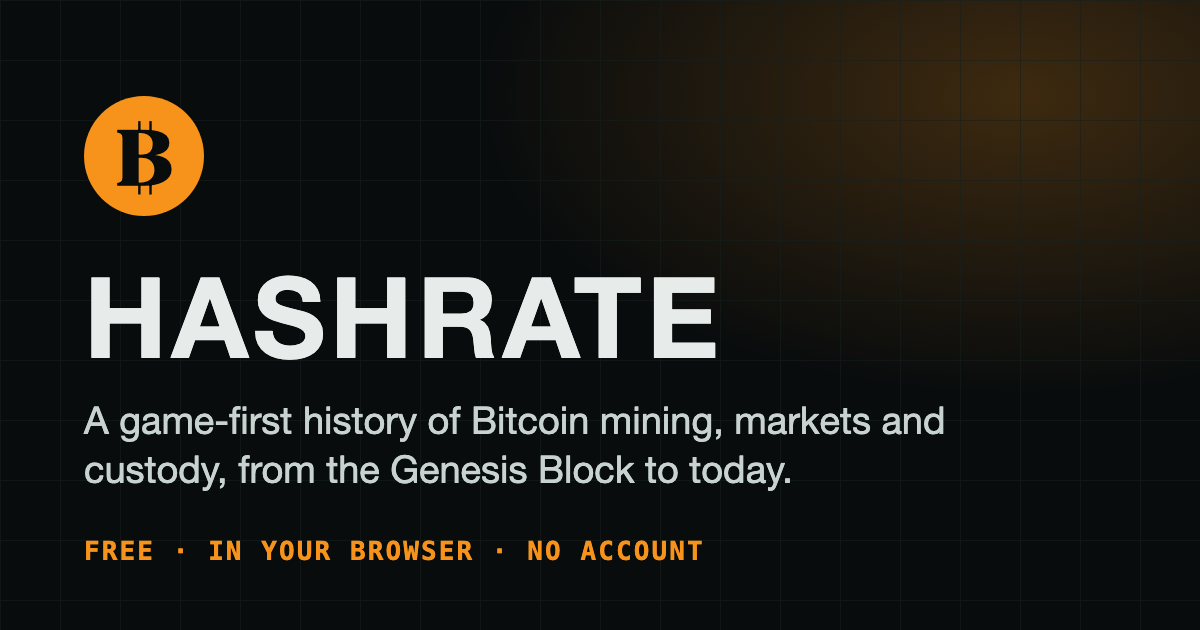
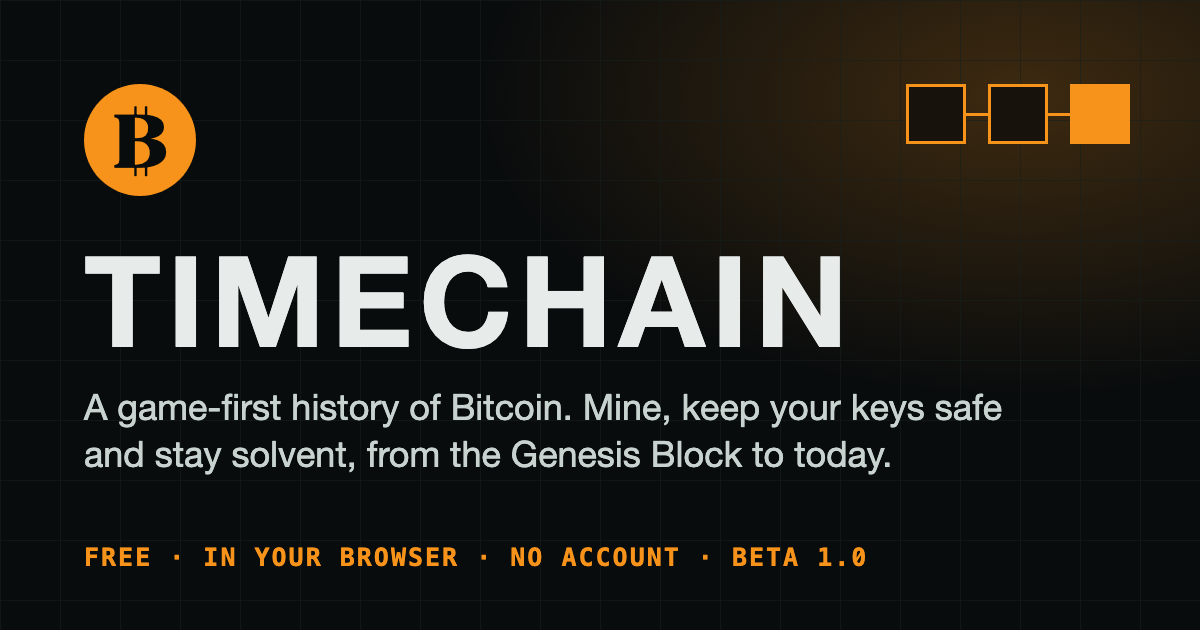
Timechain Beta 1.0
Hashrate becomes Timechain: the header, title, share image, 404, README and ARCHITECTURE, the
feedback links (github.com/mja1337/timechain) and the Pages address (/timechain/). The version
is now Beta 1.0, built from APP_STAGE and APP_VERSION, with the seed beside it in the header.
The coin at the top left links to the Bitcoin whitepaper in a new tab. Storage keys keep their
old names on purpose, so saved runs carry over. README release process rewritten for beta tags.

diff --git a/index.html b/index.html
@@ -4,103 +4,103 @@
   <meta charset="utf-8">
   <meta name="viewport" content="width=device-width,initial-scale=1">
   <meta name="theme-color" content="#090c0d">
-  <meta name="description" content="Hashrate Alpha 2.33: a game-first history of Bitcoin mining, markets, custody and geopolitics from the Genesis Block to today.">
+  <meta name="description" content="Timechain Beta 1.0: a game-first history of Bitcoin mining, markets, custody and geopolitics from the Genesis Block to today.">
   <link rel="icon" type="image/svg+xml" sizes="any" href="favicon.svg">
   <link rel="apple-touch-icon" href="apple-touch-icon.png">
   <meta property="og:type" content="website">
-  <meta property="og:title" content="Hashrate: a game-first history of Bitcoin mining">
-  <meta property="og:description" content="Run a mine from the Genesis Block to today, with recorded price, hash rate and difficulty. Free, in your browser, no account.">
-  <meta property="og:url" content="https://mja1337.github.io/hashrate-game/">
-  <meta property="og:image" content="https://mja1337.github.io/hashrate-game/og.png">
+  <meta property="og:title" content="Timechain: a game-first history of Bitcoin">
+  <meta property="og:description" content="Mine, keep your keys safe and stay solvent from the Genesis Block to today, with recorded price, hash rate and difficulty. Free, in your browser, no account.">
+  <meta property="og:url" content="https://mja1337.github.io/timechain/">
+  <meta property="og:image" content="https://mja1337.github.io/timechain/og.png">
   <meta property="og:image:width" content="1200">
   <meta property="og:image:height" content="630">
   <meta name="twitter:card" content="summary_large_image">
-  <title>Hashrate Alpha 2.33 — Genesis to Now</title>
-  <link rel="stylesheet" href="src/styles/app.css?v=2.33">
+  <title>Timechain Beta 1.0 — Genesis to Now</title>
+  <link rel="stylesheet" href="src/styles/app.css?v=1.0">
 </head>
 <body>
   <div id="app"></div>
-  <script src="src/app/recovery.js?v=2.33"></script>
-  <script src="historical-data.js?v=2.33"></script>
-  <script src="src/config/timeline.js?v=2.33"></script>
-  <script src="src/data/network.js?v=2.33"></script>
-  <script src="src/data/rivals.js?v=2.33"></script>
-  <script src="src/data/hardware.js?v=2.33"></script>
-  <script src="src/data/operations.js?v=2.33"></script>
-  <script src="src/data/progression.js?v=2.33"></script>
-  <script src="src/data/content.js?v=2.33"></script>
-  <script src="src/data/events.js?v=2.33"></script>
-  <script src="src/data/custody.js?v=2.33"></script>
-  <script src="src/data/glossary.js?v=2.33"></script>
-  <script src="src/engine/history.js?v=2.33"></script>
-  <script src="src/engine/immersion.js?v=2.33"></script>
-  <script src="src/engine/connectivity.js?v=2.33"></script>
-  <script src="src/engine/offline.js?v=2.33"></script>
-  <script src="src/engine/thermal.js?v=2.33"></script>
-  <script src="src/engine/fleet-ops.js?v=2.33"></script>
-  <script src="src/engine/secondary.js?v=2.33"></script>
-  <script src="src/engine/nodes.js?v=2.33"></script>
-  <script src="src/engine/operator.js?v=2.33"></script>
-  <script src="src/engine/render-queue.js?v=2.33"></script>
-  <script src="src/engine/save-guard.js?v=2.33"></script>
-  <script src="src/engine/simulation.js?v=2.33"></script>
-  <script src="src/engine/event-effects.js?v=2.33"></script>
-  <script src="src/engine/settlement.js?v=2.33"></script>
-  <script src="src/engine/custody.js?v=2.33"></script>
-  <script src="src/engine/payouts.js?v=2.33"></script>
-  <script src="src/engine/signing.js?v=2.33"></script>
-  <script src="src/engine/treasury.js?v=2.33"></script>
-  <script src="src/engine/losses.js?v=2.33"></script>
-  <script src="src/engine/places.js?v=2.33"></script>
-  <script src="src/engine/hotkey.js?v=2.33"></script>
-  <script src="src/engine/keyholders.js?v=2.33"></script>
-  <script src="src/engine/credit.js?v=2.33"></script>
-  <script src="src/engine/lending.js?v=2.33"></script>
-  <script src="src/engine/facilities.js?v=2.33"></script>
-  <script src="src/engine/maintenance.js?v=2.33"></script>
-  <script src="src/engine/pools.js?v=2.33"></script>
-  <script src="src/engine/actions.js?v=2.33"></script>
-  <script src="src/ui/transaction-preview.js?v=2.33"></script>
-  <script src="src/engine/recap.js?v=2.33"></script>
-  <script src="src/ui/notify.js?v=2.33"></script>
-  <script src="src/ui/presentation.js?v=2.33"></script>
-  <script src="src/ui/art.js?v=2.33"></script>
-  <script src="src/ui/disaster-art.js?v=2.33"></script>
-  <script src="src/ui/tabs/dashboard.js?v=2.33"></script>
-  <script src="src/ui/tabs/pools.js?v=2.33"></script>
-  <script src="src/ui/tabs/mine.js?v=2.33"></script>
-  <script src="src/ui/tabs/ledger.js?v=2.33"></script>
-  <script src="src/ui/tabs/market.js?v=2.33"></script>
-  <script src="src/ui/tabs/operations.js?v=2.33"></script>
-  <script src="src/ui/tabs/treasury.js?v=2.33"></script>
-  <script src="src/ui/tour.js?v=2.33"></script>
-  <script src="src/ui/tabs/method-chapters-fleet.js?v=2.33"></script>
-  <script src="src/ui/tabs/method-chapters.js?v=2.33"></script>
-  <script src="src/ui/tabs/tech.js?v=2.33"></script>
-  <script src="src/ui/tabs/method.js?v=2.33"></script>
-  <script src="src/ui/enhance/repair-bench.js?v=2.33"></script>
-  <script src="src/ui/enhance/mine-power.js?v=2.33"></script>
-  <script src="src/ui/enhance/mine-market.js?v=2.33"></script>
-  <script src="src/ui/enhance/servicing.js?v=2.33"></script>
-  <script src="src/ui/enhance/price-chart.js?v=2.33"></script>
-  <script src="src/ui/floor3d/mount.js?v=2.33"></script>
-  <script src="src/ui/enhance/keys.js?v=2.33"></script>
-  <script src="src/ui/enhance/custody.js?v=2.33"></script>
-  <script src="src/ui/enhance/custody-order.js?v=2.33"></script>
-  <script src="src/ui/enhance/treasury.js?v=2.33"></script>
-  <script src="src/ui/enhance/settlement.js?v=2.33"></script>
-  <script src="src/ui/enhance/places.js?v=2.33"></script>
-  <script src="src/ui/enhance/people.js?v=2.33"></script>
-  <script src="src/ui/enhance/hotkey.js?v=2.33"></script>
-  <script src="src/ui/enhance/counterparties.js?v=2.33"></script>
-  <script src="src/ui/enhance/operations.js?v=2.33"></script>
-  <script src="src/ui/live.js?v=2.33"></script>
-  <script src="src/ui/footer.js?v=2.33"></script>
-  <script src="src/ui/intro-chat.js?v=2.33"></script>
-  <script src="src/ui/offline.js?v=2.33"></script>
-  <script src="src/ui/confetti.js?v=2.33"></script>
-  <script src="src/ui/render.js?v=2.33"></script>
-  <script src="src/app/events.js?v=2.33"></script>
-  <script src="src/app/bootstrap.js?v=2.33"></script>
+  <script src="src/app/recovery.js?v=1.0"></script>
+  <script src="historical-data.js?v=1.0"></script>
+  <script src="src/config/timeline.js?v=1.0"></script>
+  <script src="src/data/network.js?v=1.0"></script>
+  <script src="src/data/rivals.js?v=1.0"></script>
+  <script src="src/data/hardware.js?v=1.0"></script>
+  <script src="src/data/operations.js?v=1.0"></script>
+  <script src="src/data/progression.js?v=1.0"></script>
+  <script src="src/data/content.js?v=1.0"></script>
+  <script src="src/data/events.js?v=1.0"></script>
+  <script src="src/data/custody.js?v=1.0"></script>
+  <script src="src/data/glossary.js?v=1.0"></script>
+  <script src="src/engine/history.js?v=1.0"></script>
+  <script src="src/engine/immersion.js?v=1.0"></script>
+  <script src="src/engine/connectivity.js?v=1.0"></script>
+  <script src="src/engine/offline.js?v=1.0"></script>
+  <script src="src/engine/thermal.js?v=1.0"></script>
+  <script src="src/engine/fleet-ops.js?v=1.0"></script>
+  <script src="src/engine/secondary.js?v=1.0"></script>
+  <script src="src/engine/nodes.js?v=1.0"></script>
+  <script src="src/engine/operator.js?v=1.0"></script>
+  <script src="src/engine/render-queue.js?v=1.0"></script>
+  <script src="src/engine/save-guard.js?v=1.0"></script>
+  <script src="src/engine/simulation.js?v=1.0"></script>
+  <script src="src/engine/event-effects.js?v=1.0"></script>
+  <script src="src/engine/settlement.js?v=1.0"></script>
+  <script src="src/engine/custody.js?v=1.0"></script>
+  <script src="src/engine/payouts.js?v=1.0"></script>
+  <script src="src/engine/signing.js?v=1.0"></script>
+  <script src="src/engine/treasury.js?v=1.0"></script>
+  <script src="src/engine/losses.js?v=1.0"></script>
+  <script src="src/engine/places.js?v=1.0"></script>
+  <script src="src/engine/hotkey.js?v=1.0"></script>
+  <script src="src/engine/keyholders.js?v=1.0"></script>
+  <script src="src/engine/credit.js?v=1.0"></script>
+  <script src="src/engine/lending.js?v=1.0"></script>
+  <script src="src/engine/facilities.js?v=1.0"></script>
+  <script src="src/engine/maintenance.js?v=1.0"></script>
+  <script src="src/engine/pools.js?v=1.0"></script>
+  <script src="src/engine/actions.js?v=1.0"></script>
+  <script src="src/ui/transaction-preview.js?v=1.0"></script>
+  <script src="src/engine/recap.js?v=1.0"></script>
+  <script src="src/ui/notify.js?v=1.0"></script>
+  <script src="src/ui/presentation.js?v=1.0"></script>
+  <script src="src/ui/art.js?v=1.0"></script>
+  <script src="src/ui/disaster-art.js?v=1.0"></script>
+  <script src="src/ui/tabs/dashboard.js?v=1.0"></script>
+  <script src="src/ui/tabs/pools.js?v=1.0"></script>
+  <script src="src/ui/tabs/mine.js?v=1.0"></script>
+  <script src="src/ui/tabs/ledger.js?v=1.0"></script>
+  <script src="src/ui/tabs/market.js?v=1.0"></script>
+  <script src="src/ui/tabs/operations.js?v=1.0"></script>
+  <script src="src/ui/tabs/treasury.js?v=1.0"></script>
+  <script src="src/ui/tour.js?v=1.0"></script>
+  <script src="src/ui/tabs/method-chapters-fleet.js?v=1.0"></script>
+  <script src="src/ui/tabs/method-chapters.js?v=1.0"></script>
+  <script src="src/ui/tabs/tech.js?v=1.0"></script>
+  <script src="src/ui/tabs/method.js?v=1.0"></script>
+  <script src="src/ui/enhance/repair-bench.js?v=1.0"></script>
+  <script src="src/ui/enhance/mine-power.js?v=1.0"></script>
+  <script src="src/ui/enhance/mine-market.js?v=1.0"></script>
+  <script src="src/ui/enhance/servicing.js?v=1.0"></script>
+  <script src="src/ui/enhance/price-chart.js?v=1.0"></script>
+  <script src="src/ui/floor3d/mount.js?v=1.0"></script>
+  <script src="src/ui/enhance/keys.js?v=1.0"></script>
+  <script src="src/ui/enhance/custody.js?v=1.0"></script>
+  <script src="src/ui/enhance/custody-order.js?v=1.0"></script>
+  <script src="src/ui/enhance/treasury.js?v=1.0"></script>
+  <script src="src/ui/enhance/settlement.js?v=1.0"></script>
+  <script src="src/ui/enhance/places.js?v=1.0"></script>
+  <script src="src/ui/enhance/people.js?v=1.0"></script>
+  <script src="src/ui/enhance/hotkey.js?v=1.0"></script>
+  <script src="src/ui/enhance/counterparties.js?v=1.0"></script>
+  <script src="src/ui/enhance/operations.js?v=1.0"></script>
+  <script src="src/ui/live.js?v=1.0"></script>
+  <script src="src/ui/footer.js?v=1.0"></script>
+  <script src="src/ui/intro-chat.js?v=1.0"></script>
+  <script src="src/ui/offline.js?v=1.0"></script>
+  <script src="src/ui/confetti.js?v=1.0"></script>
+  <script src="src/ui/render.js?v=1.0"></script>
+  <script src="src/app/events.js?v=1.0"></script>
+  <script src="src/app/bootstrap.js?v=1.0"></script>
 </body>
 </html>

diff --git a/src/engine/actions.js b/src/engine/actions.js
@@ -581,8 +581,8 @@ function venueAvailable(id){
 function walletName(id){return({hot:"Node-connected hot wallet",cold:"Cold / hardware wallet",mtgox:"Mt. Gox",bitfinex:"Bitfinex",quadriga:"QuadrigaCX",frontier:"Frontier exchange",exchange:"Regulated exchange",etf:"ETF exposure",frozen:"Frozen claims"})[id]||id}
 function resetGame(){if(!confirm("Erase this run and return to the Genesis Block?"))return;state=initialState();OPERATOR_ERAS.forEach(era=>state.operator.eras[era.id]={months:0,solvent:0,profitable:0,uptime:0,competitive:0});migrateActivity(state);activeTab="dashboard";activityFilter="all";activityLimit=100;tradePercentages={};introDifficulty="medium";introStartingCash=STARTING_LIQUIDITY_DEFAULT;introStep=0;clearTimeout(faucetTimer);faucet=null;save();setTimer();render()}
 function exportSave(){
-  const blob=new Blob([JSON.stringify(state,null,2)],{type:"application/json"}),url=URL.createObjectURL(blob),a=document.createElement("a");a.href=url;a.download="hashrate-save.json";a.click();URL.revokeObjectURL(url);
+  const blob=new Blob([JSON.stringify(state,null,2)],{type:"application/json"}),url=URL.createObjectURL(blob),a=document.createElement("a");a.href=url;a.download="timechain-save.json";a.click();URL.revokeObjectURL(url);
 }
 function importSave(file){
-  const reader=new FileReader();reader.onload=()=>{try{const parsed=JSON.parse(String(reader.result));if(!parsed||parsed.version!==1||!parsed.wallets||!parsed.hardware||saveShapeProblem(parsed))throw new Error("invalid");const restored=Object.assign(initialState(),parsed,{lastReal:Date.now()});restored.points=Number.isFinite(Number(restored.points))?Math.max(0,Math.floor(Number(restored.points))):0;restored.skills=Array.isArray(restored.skills)?[...new Set(restored.skills.filter(id=>SKILLS.some(s=>s.id===id)))]:[];restored.seen=Array.isArray(restored.seen)?restored.seen:[];restored.milestones=Array.isArray(restored.milestones)?restored.milestones:[];restored.milestoneLog=Array.isArray(restored.milestoneLog)?restored.milestoneLog:[];restored.exposureWarned=Array.isArray(restored.exposureWarned)?restored.exposureWarned:[];restored.maintenance.selfRepairs=restored.maintenance.selfRepairs&&typeof restored.maintenance.selfRepairs==="object"?restored.maintenance.selfRepairs:{};restored.xp=normalizeXp(restored.xp);restored.exposureWarned=Array.isArray(restored.exposureWarned)?restored.exposureWarned:[];restored.startingGrant=!!restored.startingGrant;restored.difficulty=STARTING_MODES.some(mode=>mode.id===restored.difficulty)?restored.difficulty:(startingModeForCash(restored.startingCash)?.id||"legacy");delete restored.treasuryPolicy;if(restored.custody)normalizeCustodyPlaces(restored.custody);restored.operator=Object.assign(initialState().operator,restored.operator||{});restored.operator.eras=restored.operator.eras||{};OPERATOR_ERAS.forEach(era=>restored.operator.eras[era.id]=Object.assign({months:0,solvent:0,profitable:0,uptime:0,competitive:0},restored.operator.eras[era.id]||{}));restored.poweredDownHardware=restored.poweredDownHardware&&typeof restored.poweredDownHardware==="object"?restored.poweredDownHardware:{};restored.thermal=Object.assign({temperature:22,equipment:{}},restored.thermal||{});restored.thermal.equipment=restored.thermal.equipment&&typeof restored.thermal.equipment==="object"?restored.thermal.equipment:{};COOLING_EQUIPMENT.forEach(item=>restored.thermal.equipment[item.id]=Math.max(0,Math.floor(Number(restored.thermal.equipment[item.id])||0)));HARDWARE.forEach(h=>restored.poweredDownHardware[h.id]=Math.max(0,Math.min(restored.hardware[h.id]||0,Math.floor(Number(restored.poweredDownHardware[h.id])||0))));migrateActivity(restored);migrateHardwareAlerts(restored,!!parsed.hardwareAlerts);state=restored;activeTab="dashboard";activityFilter="all";activityLimit=100;clearTimeout(faucetTimer);faucet=null;save();setTimer();render();showToast("Run restored","The imported ledger is now active.")}catch(e){showToast("Import failed","That file is not a valid Hashrate save.")}};reader.readAsText(file);
+  const reader=new FileReader();reader.onload=()=>{try{const parsed=JSON.parse(String(reader.result));if(!parsed||parsed.version!==1||!parsed.wallets||!parsed.hardware||saveShapeProblem(parsed))throw new Error("invalid");const restored=Object.assign(initialState(),parsed,{lastReal:Date.now()});restored.points=Number.isFinite(Number(restored.points))?Math.max(0,Math.floor(Number(restored.points))):0;restored.skills=Array.isArray(restored.skills)?[...new Set(restored.skills.filter(id=>SKILLS.some(s=>s.id===id)))]:[];restored.seen=Array.isArray(restored.seen)?restored.seen:[];restored.milestones=Array.isArray(restored.milestones)?restored.milestones:[];restored.milestoneLog=Array.isArray(restored.milestoneLog)?restored.milestoneLog:[];restored.exposureWarned=Array.isArray(restored.exposureWarned)?restored.exposureWarned:[];restored.maintenance.selfRepairs=restored.maintenance.selfRepairs&&typeof restored.maintenance.selfRepairs==="object"?restored.maintenance.selfRepairs:{};restored.xp=normalizeXp(restored.xp);restored.exposureWarned=Array.isArray(restored.exposureWarned)?restored.exposureWarned:[];restored.startingGrant=!!restored.startingGrant;restored.difficulty=STARTING_MODES.some(mode=>mode.id===restored.difficulty)?restored.difficulty:(startingModeForCash(restored.startingCash)?.id||"legacy");delete restored.treasuryPolicy;if(restored.custody)normalizeCustodyPlaces(restored.custody);restored.operator=Object.assign(initialState().operator,restored.operator||{});restored.operator.eras=restored.operator.eras||{};OPERATOR_ERAS.forEach(era=>restored.operator.eras[era.id]=Object.assign({months:0,solvent:0,profitable:0,uptime:0,competitive:0},restored.operator.eras[era.id]||{}));restored.poweredDownHardware=restored.poweredDownHardware&&typeof restored.poweredDownHardware==="object"?restored.poweredDownHardware:{};restored.thermal=Object.assign({temperature:22,equipment:{}},restored.thermal||{});restored.thermal.equipment=restored.thermal.equipment&&typeof restored.thermal.equipment==="object"?restored.thermal.equipment:{};COOLING_EQUIPMENT.forEach(item=>restored.thermal.equipment[item.id]=Math.max(0,Math.floor(Number(restored.thermal.equipment[item.id])||0)));HARDWARE.forEach(h=>restored.poweredDownHardware[h.id]=Math.max(0,Math.min(restored.hardware[h.id]||0,Math.floor(Number(restored.poweredDownHardware[h.id])||0))));migrateActivity(restored);migrateHardwareAlerts(restored,!!parsed.hardwareAlerts);state=restored;activeTab="dashboard";activityFilter="all";activityLimit=100;clearTimeout(faucetTimer);faucet=null;save();setTimer();render();showToast("Run restored","The imported ledger is now active.")}catch(e){showToast("Import failed","That file is not a valid Timechain save.")}};reader.readAsText(file);
 }

diff --git a/src/data/content.js b/src/data/content.js
@@ -15,8 +15,12 @@ const BALANCE_SCENARIOS=[
   {name:"Institutional campus",date:"2024-06-01",hardware:{s21:1500},facility:"campus",region:"texas",cash:30000000,maxShare:.005}
 ];
 /* The one place the version is written. The header, the page title and the top changelog entry must all agree with it; a contract checks. */
-const APP_VERSION="2.33";
+/* The release label is "<stage> <version>": Beta 1.0. Everything that shows or sends it reads APP_RELEASE, so a stage change is one line. */
+const APP_STAGE="Beta";
+const APP_VERSION="1.0";
+const APP_RELEASE=`${APP_STAGE} ${APP_VERSION}`;
 const CHANGELOG=[
+  {date:"2026-10-10",title:"Beta 1.0 Timechain",items:["Hashrate is now Timechain: a game-first history of Bitcoin, from the Genesis Block to today, in which you mine, keep your keys safe and stay solvent as the technology, the network and the world change. The name moves with the game, which is about custody and risk as much as it is about hash rate. Saved runs carry over.","The coin at the top left is now a link to the Bitcoin whitepaper, in a new tab.","The version is now Beta 1.0, with the seed beside it in the header. The game is feature-complete for its first public release; from here changes are fixes and polish."]},
   {date:"2026-10-10",title:"Alpha 2.33 emergency stop stays stopped",items:["Emergency stop all now stays stopped. It stops every machine at once (no mining, and no electricity for the fleet; rent, internet, staff and insurance still fall due), but the next monthly bill used to switch the site back on by itself, with the electricity running again, because paying a bill restores power that unpaid arrears had cut and could not tell the two apart. A stop you chose is now only undone by Start site power, and clearing arrears does not undo it either. Stopping now says what it does, and the button explains itself when you hover it.","The header no longer says \"Operator campaign\" or \"Historical replay\": the seed now sits beside the version number, and the era name stays."]},
   {date:"2026-10-10",title:"Alpha 2.32 start on Standard",items:["A new run now defaults to the Standard start, 03 February 2009, instead of Easy on the day of the Genesis Block. Easy, Hard and Impossible are still a click away under Customise your run before you begin.","The first screen now frames that start the way it would really have happened: a month after the Genesis Block, with an IRC message from the friend who has read the mailing list and has views. Easy (the day of the Genesis Block) gets a short whisper from the same friend; Hard and Impossible, years on, get none."]},
   {date:"2026-10-10",title:"Alpha 2.31 cut the line, and a celebration",items:["You can now cut the internet. It is a plan in Facilities, \"No internet (cut the line)\": it costs nothing, nothing can mine on it, and the clock keeps running. It is how you put a run on hold: stop the machines (the laptop too), sell what is spare, cut the line, and wait for a date you have to guess, because without the line you have no idea what is happening in the world. Machines left switched on keep drawing power, and rent, staff and insurance still fall due.","While you are offline most of the game goes dark. The Dashboard becomes an offline summary, the Mine keeps the floor, servicing and cooling (the catalogue is locked), and the Ledger and Method stay open. Pools, Treasury, Facilities, Energy, Learn and Tech are locked, the ticker's outside numbers read NO LINK and the Bitcoin story goes quiet.","The major chapters of the story that fall while you are offline are held, and shown one at a time when you reconnect, with their skill points; their effects on your operation still happen on the day. New hardware announcements wait for you too.","Continuous trading arriving in July 2010, the moment the first months build towards, now always opens its window, with a milestone banner and a burst of confetti, whether or not story pauses are on. A finished run gets confetti over its score too (a run that ends in failure does not). Nothing for a browser set to reduce motion."]},

diff --git a/src/app/recovery.js b/src/app/recovery.js
@@ -20,15 +20,15 @@
   window.addEventListener("unhandledrejection",function(e){note("Unhandled: "+(e.reason&&e.reason.message||e.reason))});
 
   function version(){
-    try{if(typeof APP_VERSION!=="undefined")return APP_VERSION}catch(e){}
-    return (/Alpha ([\d.]+)/.exec(document.title)||[])[1]||"unknown";
+    try{if(typeof APP_RELEASE!=="undefined")return APP_RELEASE}catch(e){}
+    return (/(?:Alpha|Beta) [\d.]+/.exec(document.title)||[])[0]||"unknown";
   }
   function read(key){try{return localStorage.getItem(key)}catch(e){return null}}
 
   /* What a bug report should carry: where, on what, and what went wrong. No save data, no
      account, no location: the player pastes this into a report themselves. */
   window.debugInfoText=function(){
-    var lines=["Alpha "+version()];
+    var lines=["Timechain "+version()];
     try{if(typeof state!=="undefined"&&state&&typeof dateFmt==="function")lines.push("In-game date: "+dateFmt(state.time)+" · speed "+state.speed+" · tab "+(typeof activeTab!=="undefined"?activeTab:"?"))}catch(e){}
     try{if(typeof saveFailing!=="undefined")lines.push("Saving: "+(saveFailing?"BLOCKED by the browser":"ok"))}catch(e){}
     try{var raw=read(SAVE);lines.push("Save: "+(raw?Math.max(1,Math.round(raw.length/1024))+" KB":"none")+(read(KEPT)?" · an unreadable save is also kept":""))}catch(e){}
@@ -65,7 +65,7 @@
     var btn="font-weight:600;font-size:14px;font-family:inherit;padding:11px 16px;border:1px solid #4a5a56;background:#111819;color:#e7ecea;border-radius:4px;cursor:pointer;margin:0 8px 8px 0";
     var prim=btn.replace("#111819","#f7931a").replace("#e7ecea","#090c0d").replace("#4a5a56","#f7931a");
     document.body.style.background="#090c0d";
-    host.innerHTML='<div style="'+css+'"><h1 style="font-size:22px;margin:0 0 12px">The game could not start</h1>'+
+    host.innerHTML='<div style="'+css+'"><h1 style="font-size:22px;margin:0 0 12px">Timechain could not start</h1>'+
       '<p>Something in this browser\'s stored game, or in the page itself, stopped it from opening. <b>Nothing has been deleted.</b> Your save is still in this browser, and you can download it before doing anything else.</p>'+
       '<p style="margin:16px 0"><button id="rc-export" style="'+btn+'">Export my save</button><button id="rc-new" style="'+btn+'">Start a new run</button><button id="rc-retry" style="'+prim+'">Try again</button></p>'+
       '<p style="color:#9aa8a4;font-size:13px">“Start a new run” moves the current save aside as an unreadable copy, then opens a fresh game; the copy stays in this browser, and the footer will offer to export it. If a reload does not help, please send us what is below.</p>'+
@@ -77,7 +77,7 @@
     document.getElementById("rc-export").onclick=function(){
       var raw=read(SAVE)||read(KEPT);
       if(!raw){this.textContent="There is no save to export";return}
-      window.downloadText(raw,"hashrate-save-raw.json");
+      window.downloadText(raw,"timechain-save-raw.json");
     };
     document.getElementById("rc-new").onclick=function(){
       try{var raw=read(SAVE);if(raw)localStorage.setItem(KEPT,raw);localStorage.removeItem(SAVE)}catch(e){}

diff --git a/src/ui/tabs/dashboard.js b/src/ui/tabs/dashboard.js
@@ -8,7 +8,7 @@ function renderHeader(){
   const mobileSections={play:{label:"Play",detail:"Time & session",tabs:["dashboard","ledger"]},operate:{label:"Operate",detail:"Fleet & site",tabs:["mine","facilities","energy","pools"]},treasury:{label:"Treasury",detail:"Capital & keys",tabs:["market","custody","finance"]},learn:{label:"Learn",detail:"Knowledge & rules",tabs:["learn","tech","method"]}},section=mobileSections[mobileMenuSection]||mobileSections.play;
   const mobileNav=`<section class="mobile-nav ${mobileMenuOpen?"open":""}" aria-label="Mobile navigation"><div class="mobile-menu-sections">${Object.entries(mobileSections).map(([id,item])=>`<button class="${mobileMenuSection===id?"active":""}" data-action="mobile-menu-section" data-value="${id}"><b>${item.label}</b><small>${item.detail}</small></button>`).join("")}</div><div class="mobile-menu-panel"><div class="mobile-menu-panel-head"><span>${section.label}</span><b>${section.detail}</b></div>${mobileMenuSection==="play"?`<div class="mobile-speed-panel"><div><span>Simulation speed</span><b data-live-speed-panel>${state.speed?`${state.speed}× running`:"Paused"}</b></div><div class="mobile-speeds" aria-label="Mobile simulation speed">${speedButtons}</div></div>`:""}<div class="mobile-nav-tabs">${section.tabs.map(t=>`<button class="${tabIsActive(t)?"active":""}" data-action="tab" data-value="${t}">${t}</button>`).join("")}</div></div></section>`;
   return `<header class="topbar">
-    <div class="brand"><div class="coin">₿</div><div><div class="brand-name">HASHRATE</div><div class="brand-sub">Alpha ${APP_VERSION} · seed ${state.seed}</div></div></div>
+    <div class="brand"><a class="coin" href="https://bitcoin.org/bitcoin.pdf" target="_blank" rel="noopener noreferrer" title="Read the Bitcoin whitepaper (opens in a new tab)" aria-label="Read the Bitcoin whitepaper (opens in a new tab)">₿</a><div><div class="brand-name">TIMECHAIN</div><div class="brand-sub">${APP_RELEASE} · seed ${state.seed}</div></div></div>
     <div class="era-chip"><strong>${eraAt(state.time)}</strong></div>
     <div class="clock"><strong id="live-date">${dateFmt(state.time)}</strong><span id="live-block">BLOCK ~${fmtNum(approxHeight(state.time))}</span></div>
     <div class="xp-meter" title="Operator level — earned from difficulty-1 shares found (submitted to your pool when pool mining), new best-share records, machines deployed and repairs completed"><div class="xp-meter-top"><b id="live-xp-level">LV ${xpProgress().level}</b><span id="live-xp-remaining">${fmtNum(Math.ceil(xpProgress().remaining))} XP to go</span></div><div class="xp-track"><i id="live-xp-fill" style="width:${xpProgress().percent.toFixed(1)}%"></i></div><span class="xp-best" id="live-xp-best">Best share ${state.xp.bestDifficulty?fmtDifficulty(state.xp.bestDifficulty):"—"}</span></div>

diff --git a/src/ui/footer.js b/src/ui/footer.js
@@ -8,7 +8,7 @@
    "Copy debug info" gives them text to paste. There is no analytics call to add and the network
    contract would refuse one. */
 
-const FEEDBACK_REPO="https://github.com/mja1337/hashrate-game";
+const FEEDBACK_REPO="https://github.com/mja1337/timechain";
 /* So people without a GitHub account can write. The footer shows the link only when this is set. */
 const FEEDBACK_EMAIL="satoshistaysrad@proton.me";
 /* A tip over Lightning, through a payment page. A plain outbound link: no address is shown here, nothing is
@@ -21,7 +21,7 @@ function feedbackUrl(template="bug.yml"){
   return `${FEEDBACK_REPO}/issues/new?${query}`;
 }
 function feedbackLinks(){
-  const mail=FEEDBACK_EMAIL?` · <a href="mailto:${FEEDBACK_EMAIL}?subject=${encodeURIComponent("Alpha "+APP_VERSION)}">Email</a>`:"";
+  const mail=FEEDBACK_EMAIL?` · <a href="mailto:${FEEDBACK_EMAIL}?subject=${encodeURIComponent("Timechain "+APP_RELEASE)}">Email</a>`:"";
   return `<a href="${escapeHtml(feedbackUrl("bug.yml"))}" target="_blank" rel="noopener noreferrer">Report a bug</a> · <a href="${escapeHtml(feedbackUrl("idea.yml"))}" target="_blank" rel="noopener noreferrer">Suggest something</a>${mail} · <button data-action="copy-debug">Copy debug info</button>`;
 }
 function footerHtml(){

diff --git a/404.html b/404.html
@@ -5,8 +5,8 @@
   <meta name="viewport" content="width=device-width,initial-scale=1">
   <meta name="theme-color" content="#090c0d">
   <meta name="robots" content="noindex">
-  <link rel="icon" type="image/svg+xml" sizes="any" href="/hashrate-game/favicon.svg">
-  <title>Block not found — Hashrate</title>
+  <link rel="icon" type="image/svg+xml" sizes="any" href="/timechain/favicon.svg">
+  <title>Block not found — Timechain</title>
   <style>
     html,body{margin:0;min-height:100%;background:#090c0d;color:#e7ecea;font:16px/1.55 -apple-system,BlinkMacSystemFont,"Segoe UI",Roboto,sans-serif}
     main{max-width:520px;margin:0 auto;padding:12vh 20px 40px}
@@ -23,7 +23,7 @@
     <div class="coin" aria-hidden="true">₿</div>
     <h1>No block at this height</h1>
     <p>There is nothing at this address. The game lives at the main page, and your run is still saved in this browser.</p>
-    <a class="go" href="/hashrate-game/">Back to the game</a>
+    <a class="go" href="/timechain/">Back to the game</a>
     <small>404 · not found</small>
   </main>
 </body>

diff --git a/src/app/events.js b/src/app/events.js
@@ -20,7 +20,7 @@ document.getElementById("app").addEventListener("click",e=>{
   // The tour promises the clock is held, so the speed buttons say so rather than quietly starting it. Pausing is always allowed.
   if(a==="speed"&&Number(v)>0&&tourActive()){showToast("The tour is holding the clock","Finish or skip the tour to start playing.","blocked");return}
   if(a==="copy-debug"){copyDebugInfo(b);return}
-  if(a==="export-unreadable"){const raw=unreadableSaveText();if(raw)downloadText(raw,"hashrate-save-unreadable.json");return}
+  if(a==="export-unreadable"){const raw=unreadableSaveText();if(raw)downloadText(raw,"timechain-save-unreadable.json");return}
   if(a==="save-notice-dismiss"){saveProblem=null;render();return}
   if(a==="dismiss-guidance"){if(id&&!state.guidance.dismissed.includes(id)){state.guidance.dismissed.push(id);save()}render();return}
   if(a==="mobile-menu"){mobileMenuOpen=!mobileMenuOpen;render(false);return}

diff --git a/src/styles/app.css b/src/styles/app.css
@@ -490,3 +490,4 @@ body.is-offline .ticker .tick.offline-masked .value,body.is-offline .ticker .tic
 .irc-log{padding:8px 0;font:12px/1.55 var(--mono);color:#c8d3cf}.irc-line{padding:1px 10px}.irc-nick{color:var(--orange2);font-weight:700}.irc-you{color:var(--green)}.irc-sys{color:var(--dim)}
 .irc-cursor{display:inline-block;width:7px;height:13px;margin-left:3px;vertical-align:-2px;background:var(--green);animation:irc-blink 1s steps(2) infinite}@keyframes irc-blink{50%{opacity:0}}
 @media(prefers-reduced-motion:reduce){.irc-cursor{animation:none}}
+a.coin{text-decoration:none;cursor:pointer;transition:border-color .12s,background .12s}a.coin:hover{border-color:var(--orange);background:#241a0c}a.coin:focus-visible{outline:2px solid var(--orange);outline-offset:2px}

diff --git a/README.md b/README.md
@@ -1,8 +1,10 @@
-# Hashrate
+# Timechain
 
-> Start with one computer. Run a Bitcoin mining operation through its entire history. Keep it profitable, solvent and secure as the technology and the network change.
+> A game-first history of Bitcoin, from the Genesis Block to today. Start with one computer. Mine, keep your keys safe and stay solvent as the technology, the network and the world change.
 
-A single-page, offline browser game covering Bitcoin mining from the Genesis Block to the present, and up to a hundred simulated years beyond it. No build step, no dependencies, no network calls at runtime: `index.html` loads a series of ordered classic scripts and a generated historical dataset.
+**Beta 1.0** · plays in the browser, free, no account · live at https://mja1337.github.io/timechain/
+
+A single-page, offline browser game covering Bitcoin (mining, markets, custody and risk) from the Genesis Block to the present, and up to a hundred simulated years beyond it. No build step, no dependencies, no network calls at runtime: `index.html` loads a series of ordered classic scripts and a generated historical dataset.
 
 The game should be understandable to someone who knows Bitcoin exists but has never looked at mining, while remaining precise enough for someone who has. The answer to that tension is progressive disclosure, not less depth: interface copy leads with consequences, contextual help answers "what does this mean and why do I care", and Method carries the formulas, edge cases and modelling assumptions.
 
@@ -14,7 +16,7 @@ python3 scripts/dev-server.py 8090
 
 Then open `http://localhost:8090`. The server sends `Cache-Control: no-store`, so a plain reload always picks up edited source. Any static server works; the file can also be opened directly, though some browsers restrict `localStorage` on `file://`.
 
-Saves live in `localStorage` under `hashrate-genesis-save-v1`, with cross-run career history under `hashrate-career-v1`. **New run** in the footer resets the current game. A stored save that cannot be used (not JSON, or the wrong shape) is never overwritten: its raw text is kept under `hashrate-genesis-save-v1.unreadable`, the footer offers to export it, and a fresh run starts. If the page cannot start at all, `src/app/recovery.js` (which loads first and uses no game code) shows a recovery page with Export my save, Start a new run and Try again.
+Saves live in `localStorage` under `hashrate-genesis-save-v1`, with cross-run career history under `hashrate-career-v1`. Those keys keep the name the game had before it was Timechain on purpose: changing them would orphan every saved run on the same origin. **New run** in the footer resets the current game. A stored save that cannot be used (not JSON, or the wrong shape) is never overwritten: its raw text is kept under `hashrate-genesis-save-v1.unreadable`, the footer offers to export it, and a fresh run starts. If the page cannot start at all, `src/app/recovery.js` (which loads first and uses no game code) shows a recovery page with Export my save, Start a new run and Try again.
 
 ## Safety checks
 
@@ -41,18 +43,18 @@ The first three suites match source text (the engine-behaviour suite does not). 
 
 GitHub Pages builds from `main`, so **every push to `main` is live within about 40 seconds**. Nothing else stands between a commit and a player.
 
-- **Every local asset URL carries the version** (`?v=2.23`, from `APP_VERSION`), in `index.html` and in the lazily loaded 3D scripts. Pages lets a browser keep a file for ten minutes, so without this a player could load new modules beside old ones, and the load-order rules in `ARCHITECTURE.md` mean that can throw. The structure check fails if any asset lacks the current version. Because of this, **bump `APP_VERSION` for every change that ships, hotfixes included**: the bump is what makes browsers fetch the new files together.
-- **Before pushing a release:** bump `APP_VERSION`, add the changelog entry and update Method, then run all four checks on the exact commit you are pushing.
-- **The launch tag** marks the build that went out (`v2.23-launch` is the first public build; each push that ships gets its own, and rollback uses the newest): `git tag -a v2.24-launch -m "Launch build"`, pushed with `git push origin v2.24-launch`. Move it with `git tag -fa` only if the launch commit itself changes before anyone has played it.
-- **Launch-weekend freeze:** from Saturday morning to Sunday evening, push to `main` only for hotfixes that bump the version and pass all four checks. No feature commits.
+- **Every local asset URL carries the version** (`?v=1.0`, from `APP_VERSION`), in `index.html` and in the lazily loaded 3D scripts. Pages lets a browser keep a file for ten minutes, so without this a player could load new modules beside old ones, and the load-order rules in `ARCHITECTURE.md` mean that can throw. The structure check fails if any asset lacks the current version. Because of this, **bump `APP_VERSION` for every change that ships, hotfixes included** (`1.0`, `1.1`, ...): the bump is what makes browsers fetch the new files together. The release label (`Beta 1.0`) is `APP_STAGE` + `APP_VERSION`.
+- **Before pushing a release:** bump `APP_VERSION`, add the changelog entry and update Method, then run all four checks on the exact commit you are pushing. Check the exit codes, not just the output.
+- **The release tag** marks the build that went out: `git tag -a beta-1.0 -m "Beta 1.0"`, pushed with `git push origin beta-1.0`. Each push that ships gets its own, and rollback uses the newest.
 - **Rolling back** without rewriting history: revert everything after the tag, then push.
 
   ```bash
-  git revert --no-edit v2.24-launch..HEAD
+  git revert --no-edit beta-1.0..HEAD
   git push
   ```
 
-  The reverted tree carries the launch build's own `?v=` URLs, so browsers that cached them get a consistent set. Rehearse it once on a throwaway clone before you need it.
+  The reverted tree carries that release's own `?v=` URLs, so browsers that cached them get a consistent set. Rehearse it once on a throwaway clone before you need it.
+- **If a Pages build does not start** after a push (it has happened), ask for one: `gh api -X POST repos/<owner>/<repo>/pages/builds`.
 
 ## Feedback and privacy
 
@@ -191,7 +193,7 @@ Use these terms consistently across interface, help and Method.
 | bitcoin | Units in prose when no amount is shown | Capitalising every use |
 | BTC | A displayed amount or balance | “coins” when a precise balance matters |
 | Mining | Using computation to compete for blocks | Assuming “hashing” is understood |
-| Hash rate | Computational work performed per second | “Hashrate” in prose; keep the product name Hashrate |
+| Hash rate | Computational work performed per second | Write “hash rate” in prose, never “hashrate”; the product name is Timechain |
 | Network difficulty | How difficult the network makes block discovery | “Difficulty” alone on first use |
 | Block reward | Subsidy plus transaction fees received for a block | Treating subsidy and fees as identical |
 | Solo mining | Mining independently with high payout variance | “Solo” without context on first use |

diff --git a/ARCHITECTURE.md b/ARCHITECTURE.md
@@ -1,4 +1,4 @@
-# Hashrate project structure
+# Timechain project structure
 
 `index.html` is deliberately only the application shell. Keep implementation code out of it.
 
